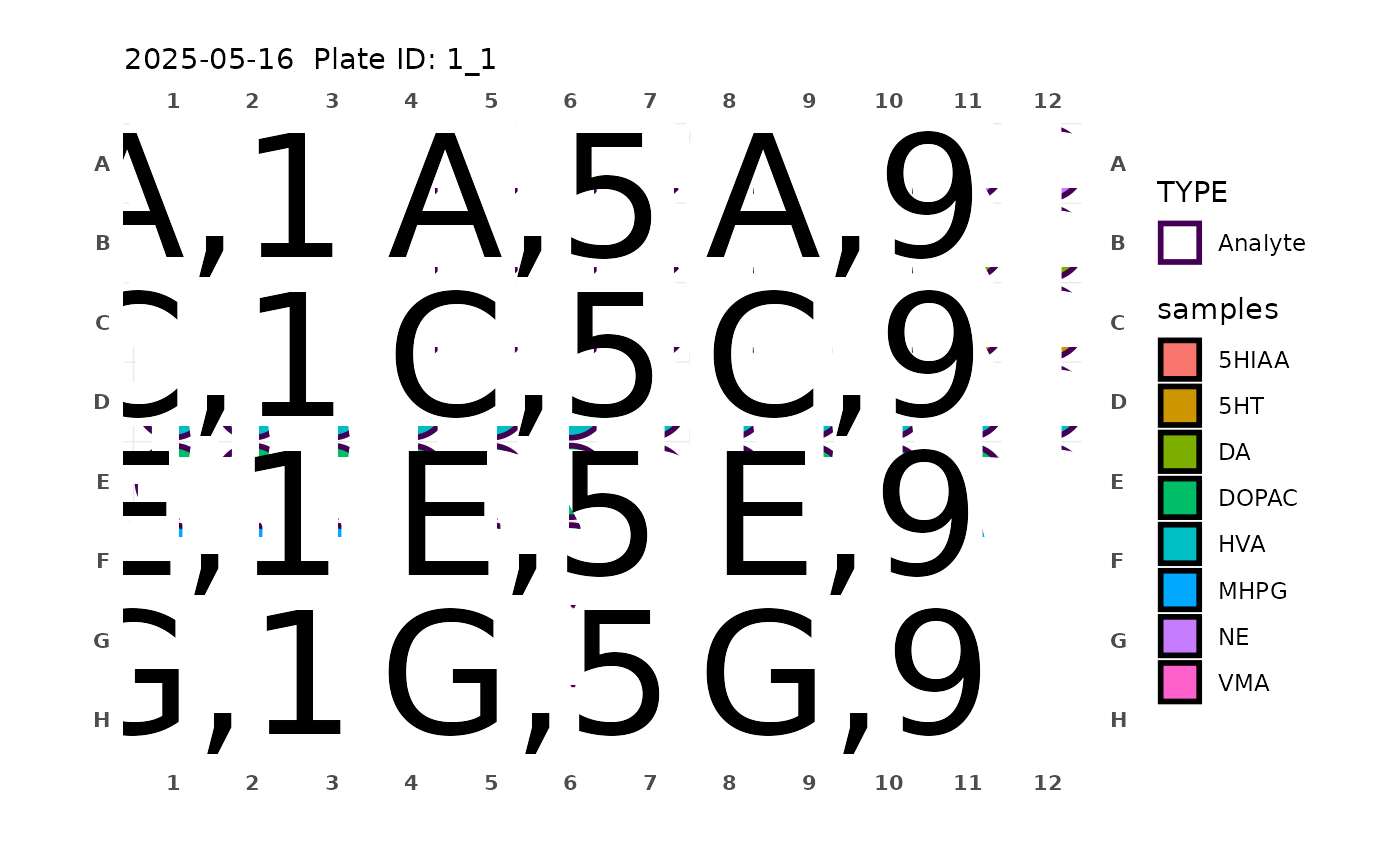
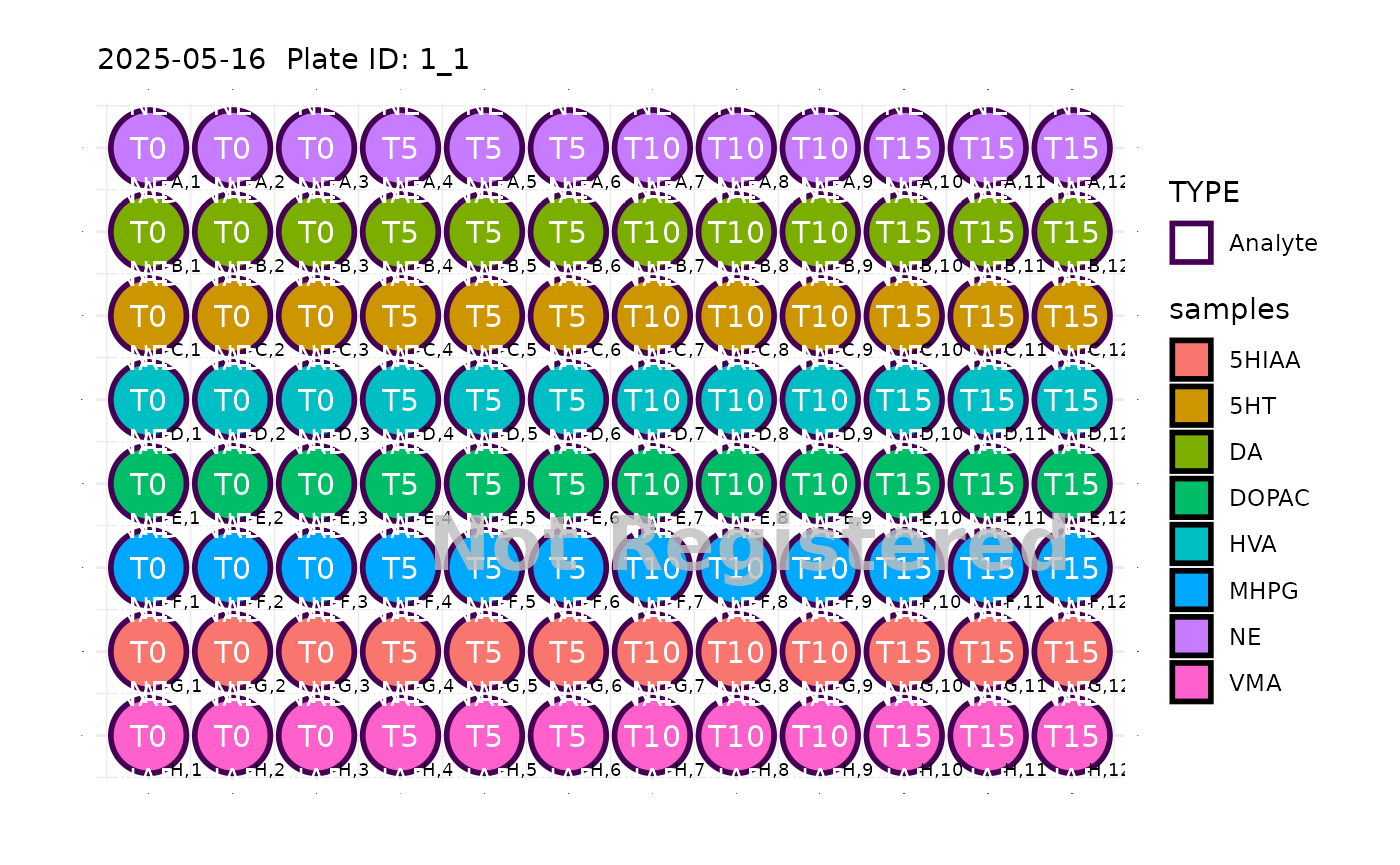
Deploying to gh-pages from @ OmarAshkar/PKbioanalysis@8078486a041f53f43e1e59e9a02ecd48e60794e2 🚀

diff --git a/articles/Plate Design.html b/articles/Plate Design.html
@@ -262,27 +262,27 @@ sample name.</p>
 <div class="sourceCode" id="cb21"><pre class="downlit sourceCode r">
 <code class="sourceCode R"><span><span class="fu"><a href="https://rdrr.io/r/base/length.html" class="external-link">length</a></span><span class="op">(</span><span class="va">plates</span><span class="op">)</span></span>
 <span><span class="co">#&gt; [1] 7</span></span>
-<span><span class="fu"><a href="https://rdrr.io/r/graphics/plot.default.html" class="external-link">plot</a></span><span class="op">(</span><span class="va">plates</span><span class="op">[[</span><span class="fl">1</span><span class="op">]</span><span class="op">]</span>, color <span class="op">=</span> <span class="st">"samples"</span>, label_size <span class="op">=</span> <span class="fl">9</span><span class="op">)</span></span>
+<span><span class="fu"><a href="https://rdrr.io/r/graphics/plot.default.html" class="external-link">plot</a></span><span class="op">(</span><span class="va">plates</span><span class="op">[[</span><span class="fl">1</span><span class="op">]</span><span class="op">]</span>, color <span class="op">=</span> <span class="st">"samples"</span>, label_size <span class="op">=</span> <span class="fl">1</span><span class="op">)</span></span>
 <span><span class="co">#&gt; Plate not registered. To register, use register_plate()</span></span></code></pre></div>
 <p><img src="Plate%20Design_files/figure-html/unnamed-chunk-15-1.png" width="700"></p>
 <div class="sourceCode" id="cb22"><pre class="downlit sourceCode r">
-<code class="sourceCode R"><span><span class="fu"><a href="https://rdrr.io/r/graphics/plot.default.html" class="external-link">plot</a></span><span class="op">(</span><span class="va">plates</span><span class="op">[[</span><span class="fl">2</span><span class="op">]</span><span class="op">]</span>, color <span class="op">=</span> <span class="st">"samples"</span>, label_size <span class="op">=</span> <span class="fl">9</span><span class="op">)</span></span>
+<code class="sourceCode R"><span><span class="fu"><a href="https://rdrr.io/r/graphics/plot.default.html" class="external-link">plot</a></span><span class="op">(</span><span class="va">plates</span><span class="op">[[</span><span class="fl">2</span><span class="op">]</span><span class="op">]</span>, color <span class="op">=</span> <span class="st">"samples"</span>, label_size <span class="op">=</span> <span class="fl">1</span><span class="op">)</span></span>
 <span><span class="co">#&gt; Plate not registered. To register, use register_plate()</span></span></code></pre></div>
 <p><img src="Plate%20Design_files/figure-html/unnamed-chunk-15-2.png" width="700"></p>
 <div class="sourceCode" id="cb23"><pre class="downlit sourceCode r">
-<code class="sourceCode R"><span><span class="fu"><a href="https://rdrr.io/r/graphics/plot.default.html" class="external-link">plot</a></span><span class="op">(</span><span class="va">plates</span><span class="op">[[</span><span class="fl">3</span><span class="op">]</span><span class="op">]</span>, color <span class="op">=</span> <span class="st">"samples"</span>, label_size <span class="op">=</span> <span class="fl">9</span><span class="op">)</span></span>
+<code class="sourceCode R"><span><span class="fu"><a href="https://rdrr.io/r/graphics/plot.default.html" class="external-link">plot</a></span><span class="op">(</span><span class="va">plates</span><span class="op">[[</span><span class="fl">3</span><span class="op">]</span><span class="op">]</span>, color <span class="op">=</span> <span class="st">"samples"</span>, label_size <span class="op">=</span> <span class="fl">1</span><span class="op">)</span></span>
 <span><span class="co">#&gt; Plate not registered. To register, use register_plate()</span></span></code></pre></div>
 <p><img src="Plate%20Design_files/figure-html/unnamed-chunk-15-3.png" width="700"></p>
 <div class="sourceCode" id="cb24"><pre class="downlit sourceCode r">
-<code class="sourceCode R"><span><span class="fu"><a href="https://rdrr.io/r/graphics/plot.default.html" class="external-link">plot</a></span><span class="op">(</span><span class="va">plates</span><span class="op">[[</span><span class="fl">4</span><span class="op">]</span><span class="op">]</span>, color <span class="op">=</span> <span class="st">"samples"</span>, label_size <span class="op">=</span> <span class="fl">9</span><span class="op">)</span></span>
+<code class="sourceCode R"><span><span class="fu"><a href="https://rdrr.io/r/graphics/plot.default.html" class="external-link">plot</a></span><span class="op">(</span><span class="va">plates</span><span class="op">[[</span><span class="fl">4</span><span class="op">]</span><span class="op">]</span>, color <span class="op">=</span> <span class="st">"samples"</span>, label_size <span class="op">=</span> <span class="fl">1</span><span class="op">)</span></span>
 <span><span class="co">#&gt; Plate not registered. To register, use register_plate()</span></span></code></pre></div>
 <p><img src="Plate%20Design_files/figure-html/unnamed-chunk-15-4.png" width="700"></p>
 <div class="sourceCode" id="cb25"><pre class="downlit sourceCode r">
-<code class="sourceCode R"><span><span class="fu"><a href="https://rdrr.io/r/graphics/plot.default.html" class="external-link">plot</a></span><span class="op">(</span><span class="va">plates</span><span class="op">[[</span><span class="fl">5</span><span class="op">]</span><span class="op">]</span>, color <span class="op">=</span> <span class="st">"samples"</span>, label_size <span class="op">=</span> <span class="fl">9</span><span class="op">)</span></span>
+<code class="sourceCode R"><span><span class="fu"><a href="https://rdrr.io/r/graphics/plot.default.html" class="external-link">plot</a></span><span class="op">(</span><span class="va">plates</span><span class="op">[[</span><span class="fl">5</span><span class="op">]</span><span class="op">]</span>, color <span class="op">=</span> <span class="st">"samples"</span>, label_size <span class="op">=</span> <span class="fl">1</span><span class="op">)</span></span>
 <span><span class="co">#&gt; Plate not registered. To register, use register_plate()</span></span></code></pre></div>
 <p><img src="Plate%20Design_files/figure-html/unnamed-chunk-15-5.png" width="700"></p>
 <div class="sourceCode" id="cb26"><pre class="downlit sourceCode r">
-<code class="sourceCode R"><span><span class="fu"><a href="https://rdrr.io/r/graphics/plot.default.html" class="external-link">plot</a></span><span class="op">(</span><span class="va">plates</span><span class="op">[[</span><span class="fl">6</span><span class="op">]</span><span class="op">]</span>, color <span class="op">=</span> <span class="st">"samples"</span>, label_size <span class="op">=</span> <span class="fl">9</span><span class="op">)</span></span>
+<code class="sourceCode R"><span><span class="fu"><a href="https://rdrr.io/r/graphics/plot.default.html" class="external-link">plot</a></span><span class="op">(</span><span class="va">plates</span><span class="op">[[</span><span class="fl">6</span><span class="op">]</span><span class="op">]</span>, color <span class="op">=</span> <span class="st">"samples"</span>, label_size <span class="op">=</span> <span class="fl">1</span><span class="op">)</span></span>
 <span><span class="co">#&gt; Plate not registered. To register, use register_plate()</span></span></code></pre></div>
 <p><img src="Plate%20Design_files/figure-html/unnamed-chunk-15-6.png" width="700"></p>
 <div class="sourceCode" id="cb27"><pre class="downlit sourceCode r">
